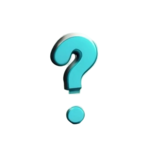
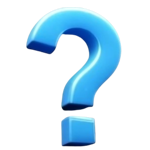
Plugins updated

diff --git a/Working/mission.helper/README.md b/Working/mission.helper/README.md
@@ -8,6 +8,11 @@ Accept the job "(mission.helper)" and click your way to the mission you want mor
 <br>
 Changelog:<br>
 <br>
+2025-05-01<br>
+added the choice to prevent race spoilers<br>
+removed races without missions<br>
+added icon@2x and improved plugin.txt<br>
+<br>
 2025-02-26<br>
 updated with 0.10.12 data<br>
 improved help text<br>
